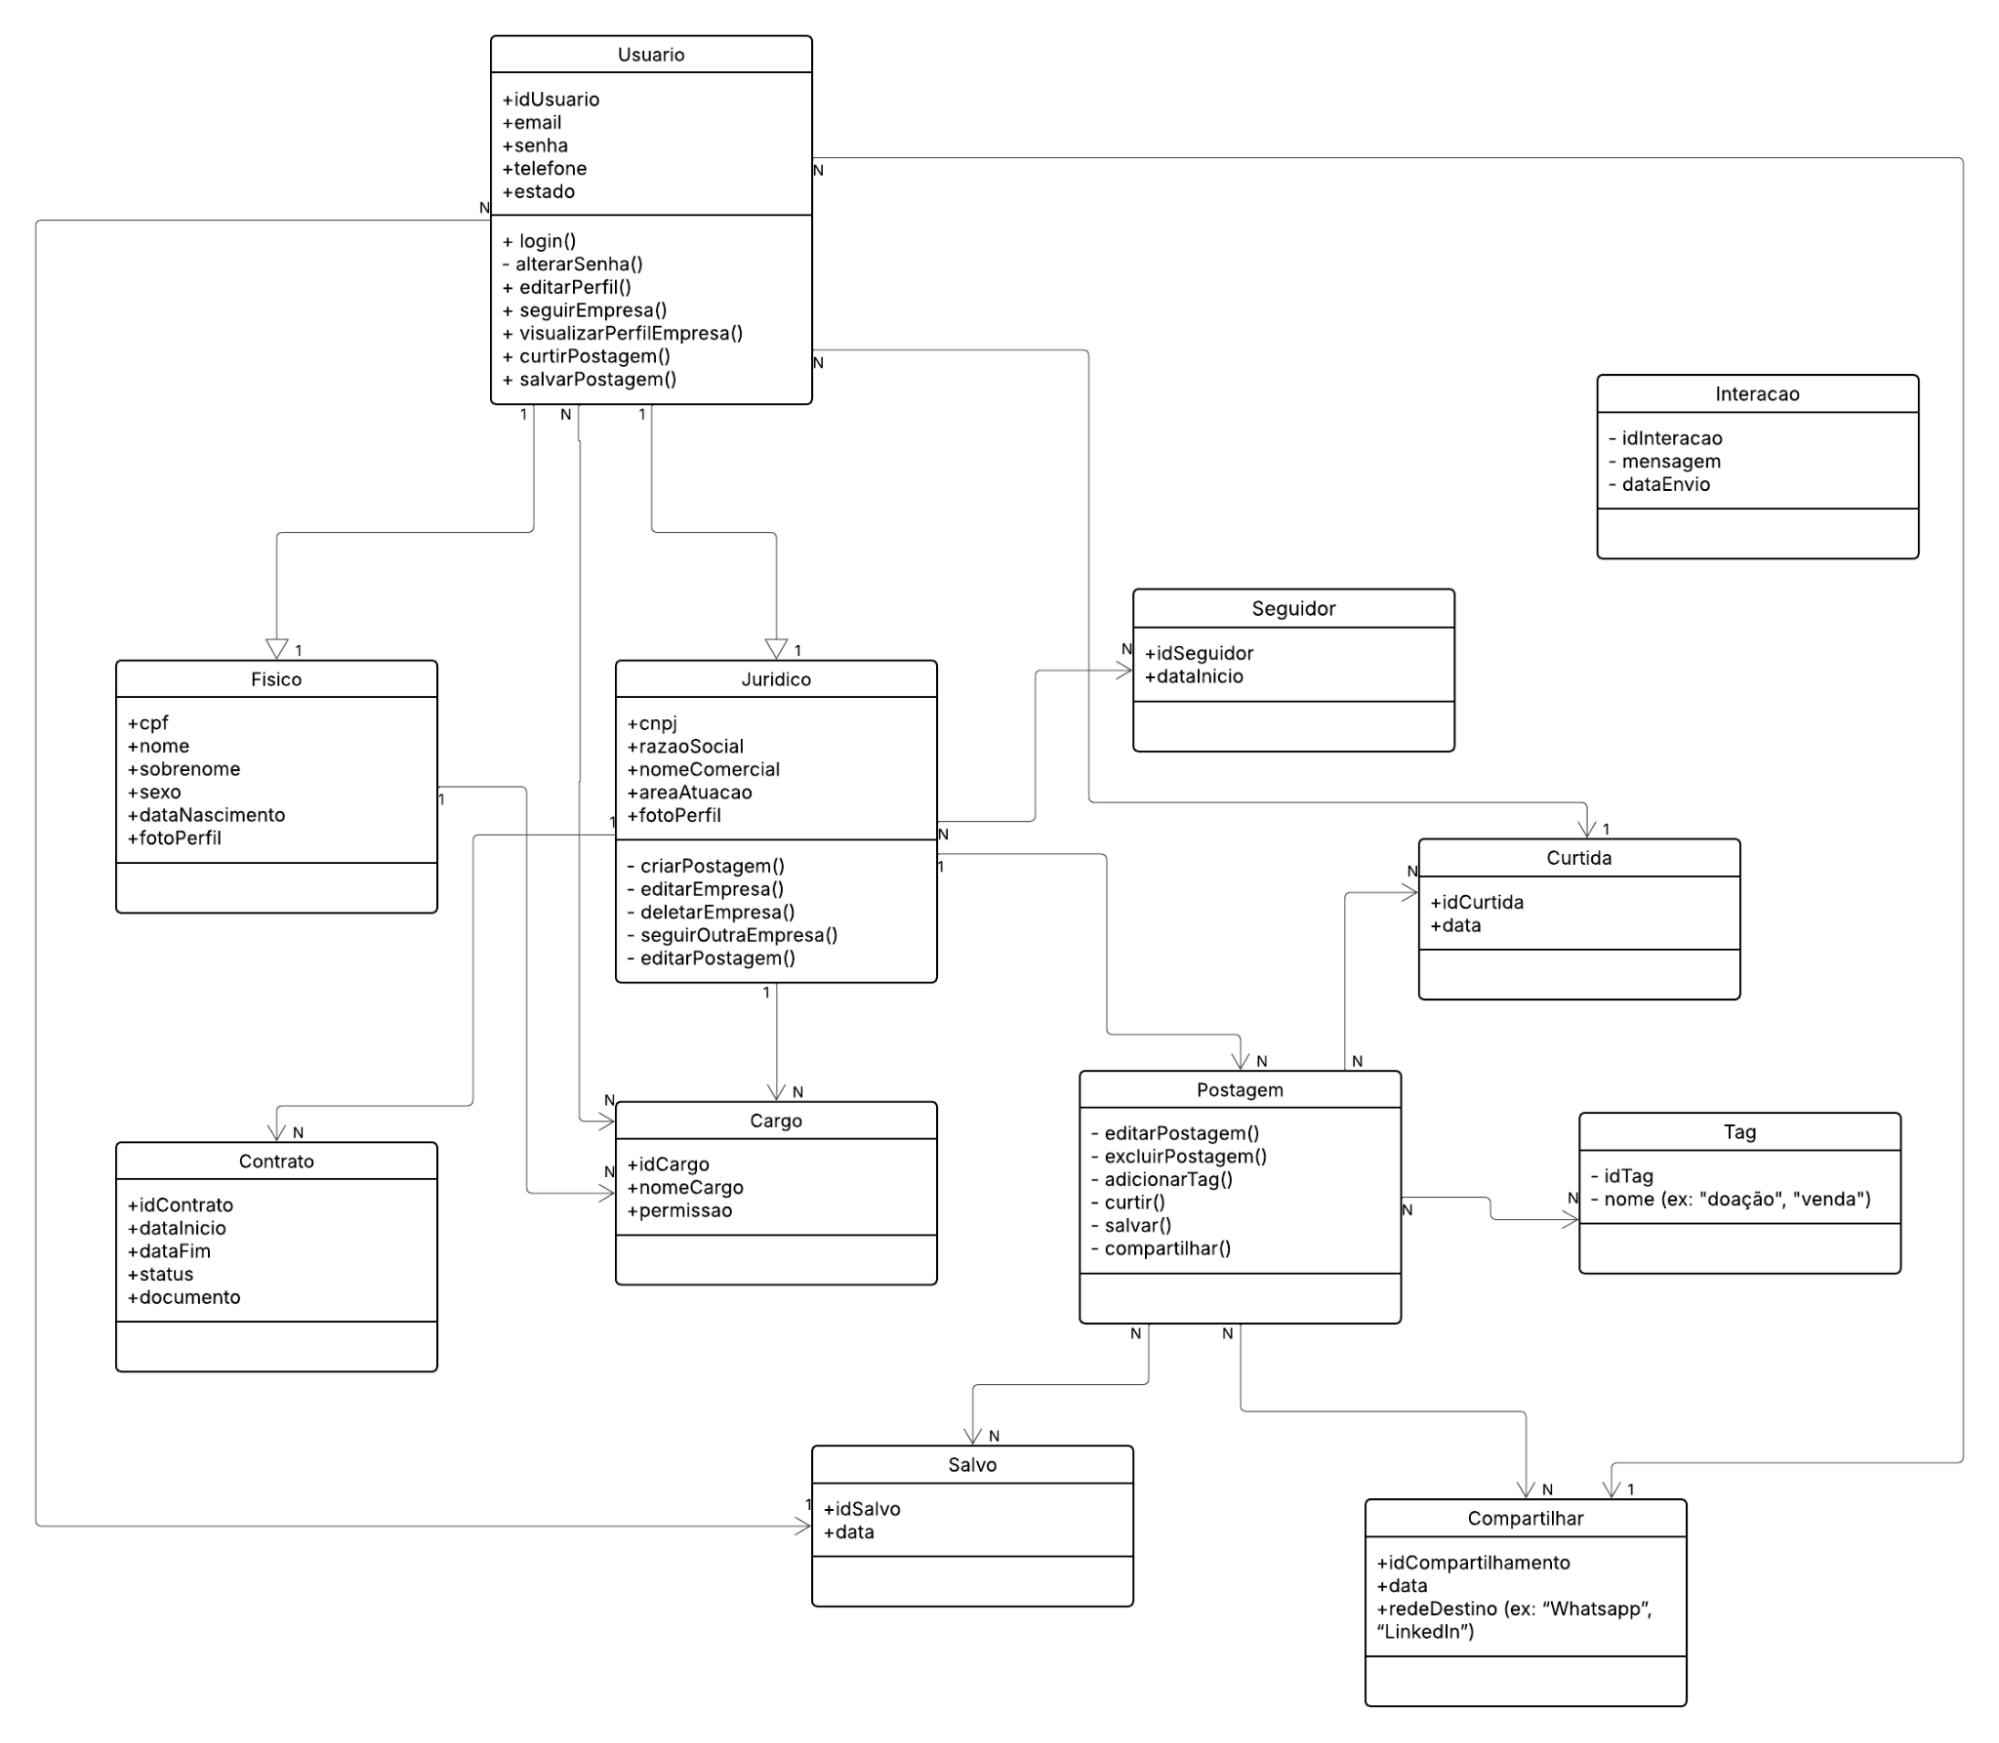
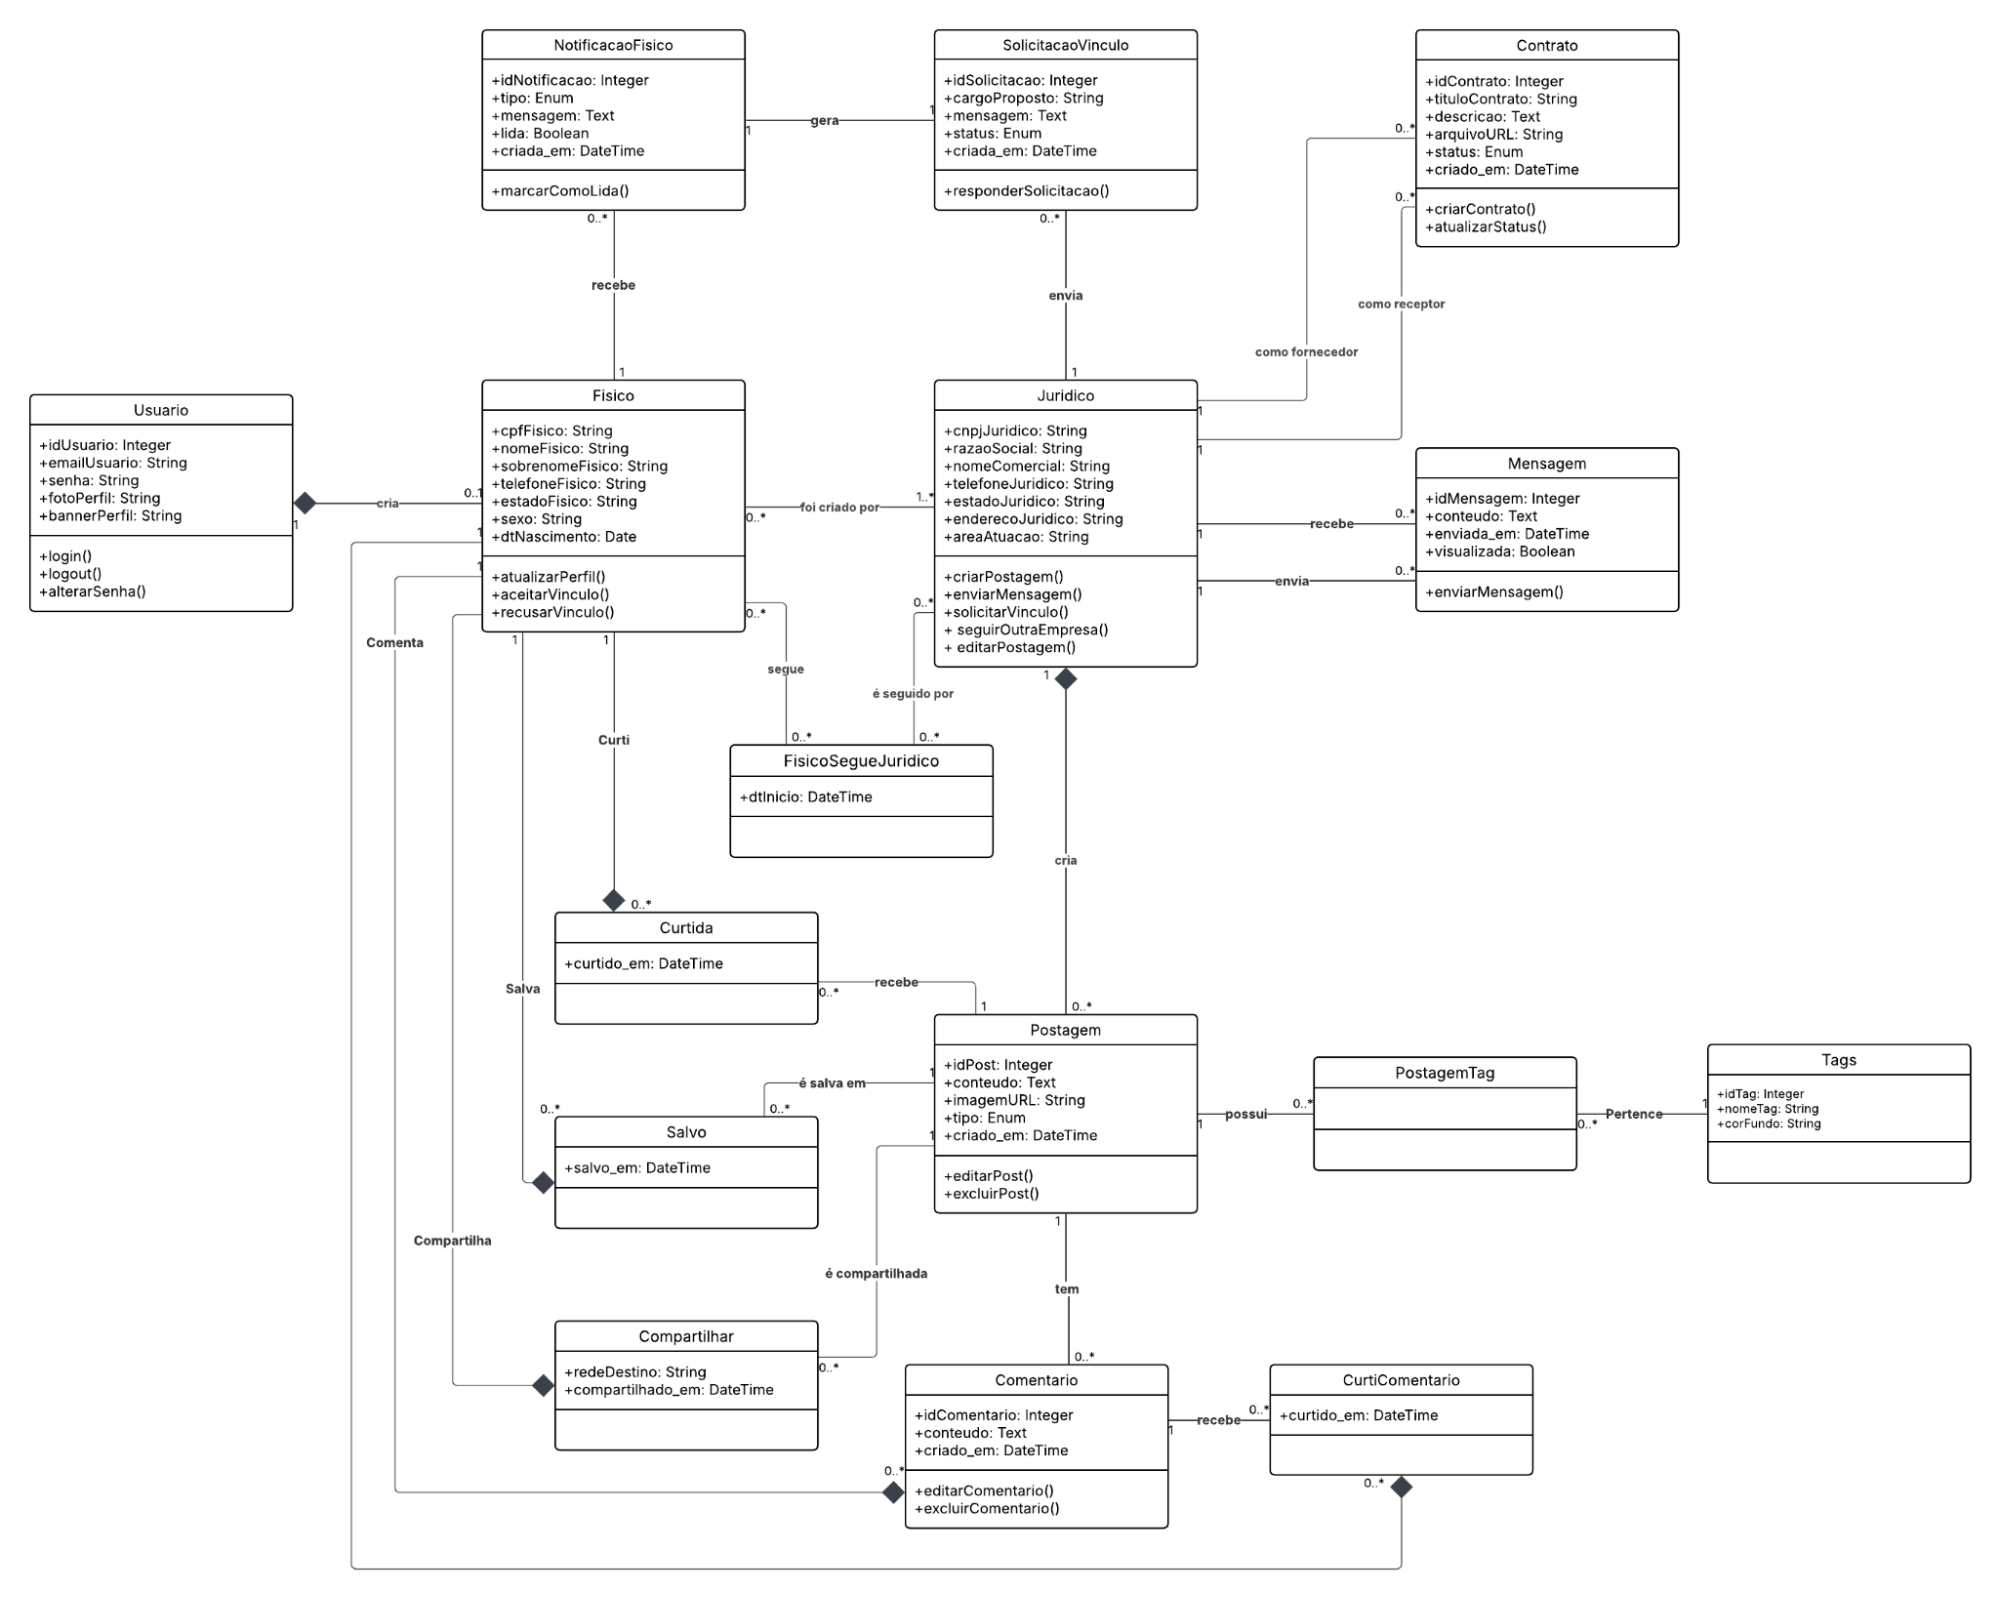
📝 atualizacao do diagrama de classe

diff --git a/docs/docs/arquitetura/f-diagrama-de-classes-e-pacotes.md b/docs/docs/arquitetura/f-diagrama-de-classes-e-pacotes.md
@@ -6,89 +6,20 @@ sidebar_position: 6
 
 # Diagrama de Classes
 
-Este diagrama de classes representa um modelo de dados para o sistema EcoNet, mostrando como as diferentes entidades do sistema estão relacionadas entre si e quais atributos e métodos elas possuem.
+![Representação Visual da Arquitetura](../../static/img/image2.png)
+
+O diagrama ilustrado apresenta diversas classes fundamentais organizadas de forma a refletir a complexidade e a modularização do sistema. Entre as classes principais, destacam-se:
 
 ## Classes e Relações
 
-### **Usuário**
-Representa um usuário genérico do sistema, com atributos para identificação, contato e autenticação.
+- **Usuário:** Central para o sistema, esta classe contém atributos como idUsuario, emailUsuario, senhaUsuario, fotoPerfil e bannerPerfil, e métodos que suportam funções de autenticação e gerenciamento do perfil (por exemplo, login(), logou() e alterarSenha()).
+- **Fisico:** Destinada a representar usuários com perfil individual, esta classe inclui atributos como cpfFisico, nomeFisico, sobrenomeFisico, telefoneFisico, emailFisico, sexoFisico e dtNascimento. Seus métodos, como utilizarPerfil(), aceitarVinculo() e recusarVinculo(), demonstram interações típicas de redes sociais ou sistemas colaborativos.
+- **Juridico:** Voltada para contas empresariais ou institucionais, esta classe possui atributos específicos como cnpjJuridico, razaoSocial, nomeComercial, telefoneJuridico, emailJuridico, sexoJuridico, dtNascimento e areaAtuacao. Os métodos criarPostagem(), enviarMensagem(), solicitarVinculo(), seguirOutroEmpresa() e odiarPostagem() ressaltam as funcionalidades exclusivas deste tipo de perfil.
+- **Postagem, Comentario e Tags:** Estas classes mapeiam os elementos de conteúdo e interação. A classe Postagem se relaciona com Comentario (permitindo avaliações e discussões) e com Tags (por meio da classe associativa PostagemTag), o que organiza e categoriza o conteúdo do sistema.
+Outras classes, como NotificacaoFisico, SolicitacaoVinculo, Contrato, Mensagem, FisicoSegueJuridico, Curtida, Salvo, Compartilhar e CurtiComentario, ampliam a funcionalidade do sistema, cobrindo aspectos como notificações, vínculos entre usuários e reações diversas a conteúdos compartilhados.
 
-- **Atributos**: `idUsuario`, `email`, `senha`, `telefone`, `estado`
-- **Métodos**:
-  - `login()`
-  - `alterarSenha()`
-  - `editarPerfil()`
-  - `seguirEmpresa()`
-  - `visualizarPerfilEmpresa()`
-  - `curtirPostagem()`
-  - `salvarPostagem()`
-
-### **Físico** (Especialização de `Usuário`)
-Representa uma pessoa física.
-
-- **Atributos**: `cpf`, `nome`, `sobrenome`, `sexo`, `dataNascimento`, `fotoPerfil`
-
-### **Jurídico** (Especialização de `Usuário`)
-Representa uma empresa.
-
-- **Atributos**: `cnpj`, `razaoSocial`, `nomeComercial`, `ramoAtuacao`, `fotoPerfil`
-- **Métodos**:
-  - `criarPostagem()`
-  - `editarEmpresa()`
-  - `deletarEmpresa()`
-  - `seguirOutraEmpresa()`
-  - `editarPostagem()`
-
-### **Postagem**
-Representa um anúncio de material.
-
-- **Métodos**:
-  - `editarPostagem()`
-  - `excluirPostagem()`
-  - `adicionarTag()`
-  - `curtir()`
-  - `salvar()`
-  - `compartilhar()`
-
-### **Cargo**
-Define funções dentro de uma empresa.
-
-- **Atributos**: `idCargo`, `nomeCargo`, `permissao`
-
-### **Contrato**
-Armazena informações sobre acordos formais.
-
-- **Atributos**: `idContrato`, `dataInicio`, `dataFim`, `status`, `documento`
-
-### **Interação**
-Representa comunicação entre usuários.
-
-- **Atributos**: `idInteracao`, `mensagem`, `dataEnvio`
-
-### **Relações**
-#### **Seguidor**
-Rastreia conexões entre usuários.
-
-- **Atributos**: `idSeguidor`, `dataInicio`
-
-#### **Curtida**
-Registra curtidas em postagens.
-
-- **Atributos**: `idCurtida`, `data`
-
-#### **Salvo**
-Registra postagens guardadas.
-
-- **Atributos**: `idSalvo`, `data`
-
-### **Tag**
-Permite categorizar postagens.
-
-- **Atributos**: `idTag`, `nome`
-
-### **Compartilhar**
-Registra compartilhamentos de postagens.
-
-- **Atributos**: `idCompartilhamento`, `data`, `redeDestino`
-
-![Representação Visual da Arquitetura](../../static/img/image2.png)
+## Relações e Interações
+As conexões entre as classes, representadas por linhas no diagrama, indicam como os componentes do sistema interagem. Por exemplo, a associação entre a classe Usuario e Fisico demonstra a especialização ou extensão de comportamentos, enquanto a ligação entre Postagem e Salvo evidencia a funcionalidade de armazenamento ou bookmark de conteúdo. Essa rede de relacionamentos é fundamental para:
+- Visualizar a dependência entre os módulos do sistema.
+- Identificar pontos de integração e interface entre componentes.
+- Assegurar que a implementação respeite as diretrizes da orientação a objetos, promovendo baixo acoplamento e alta coesão.
